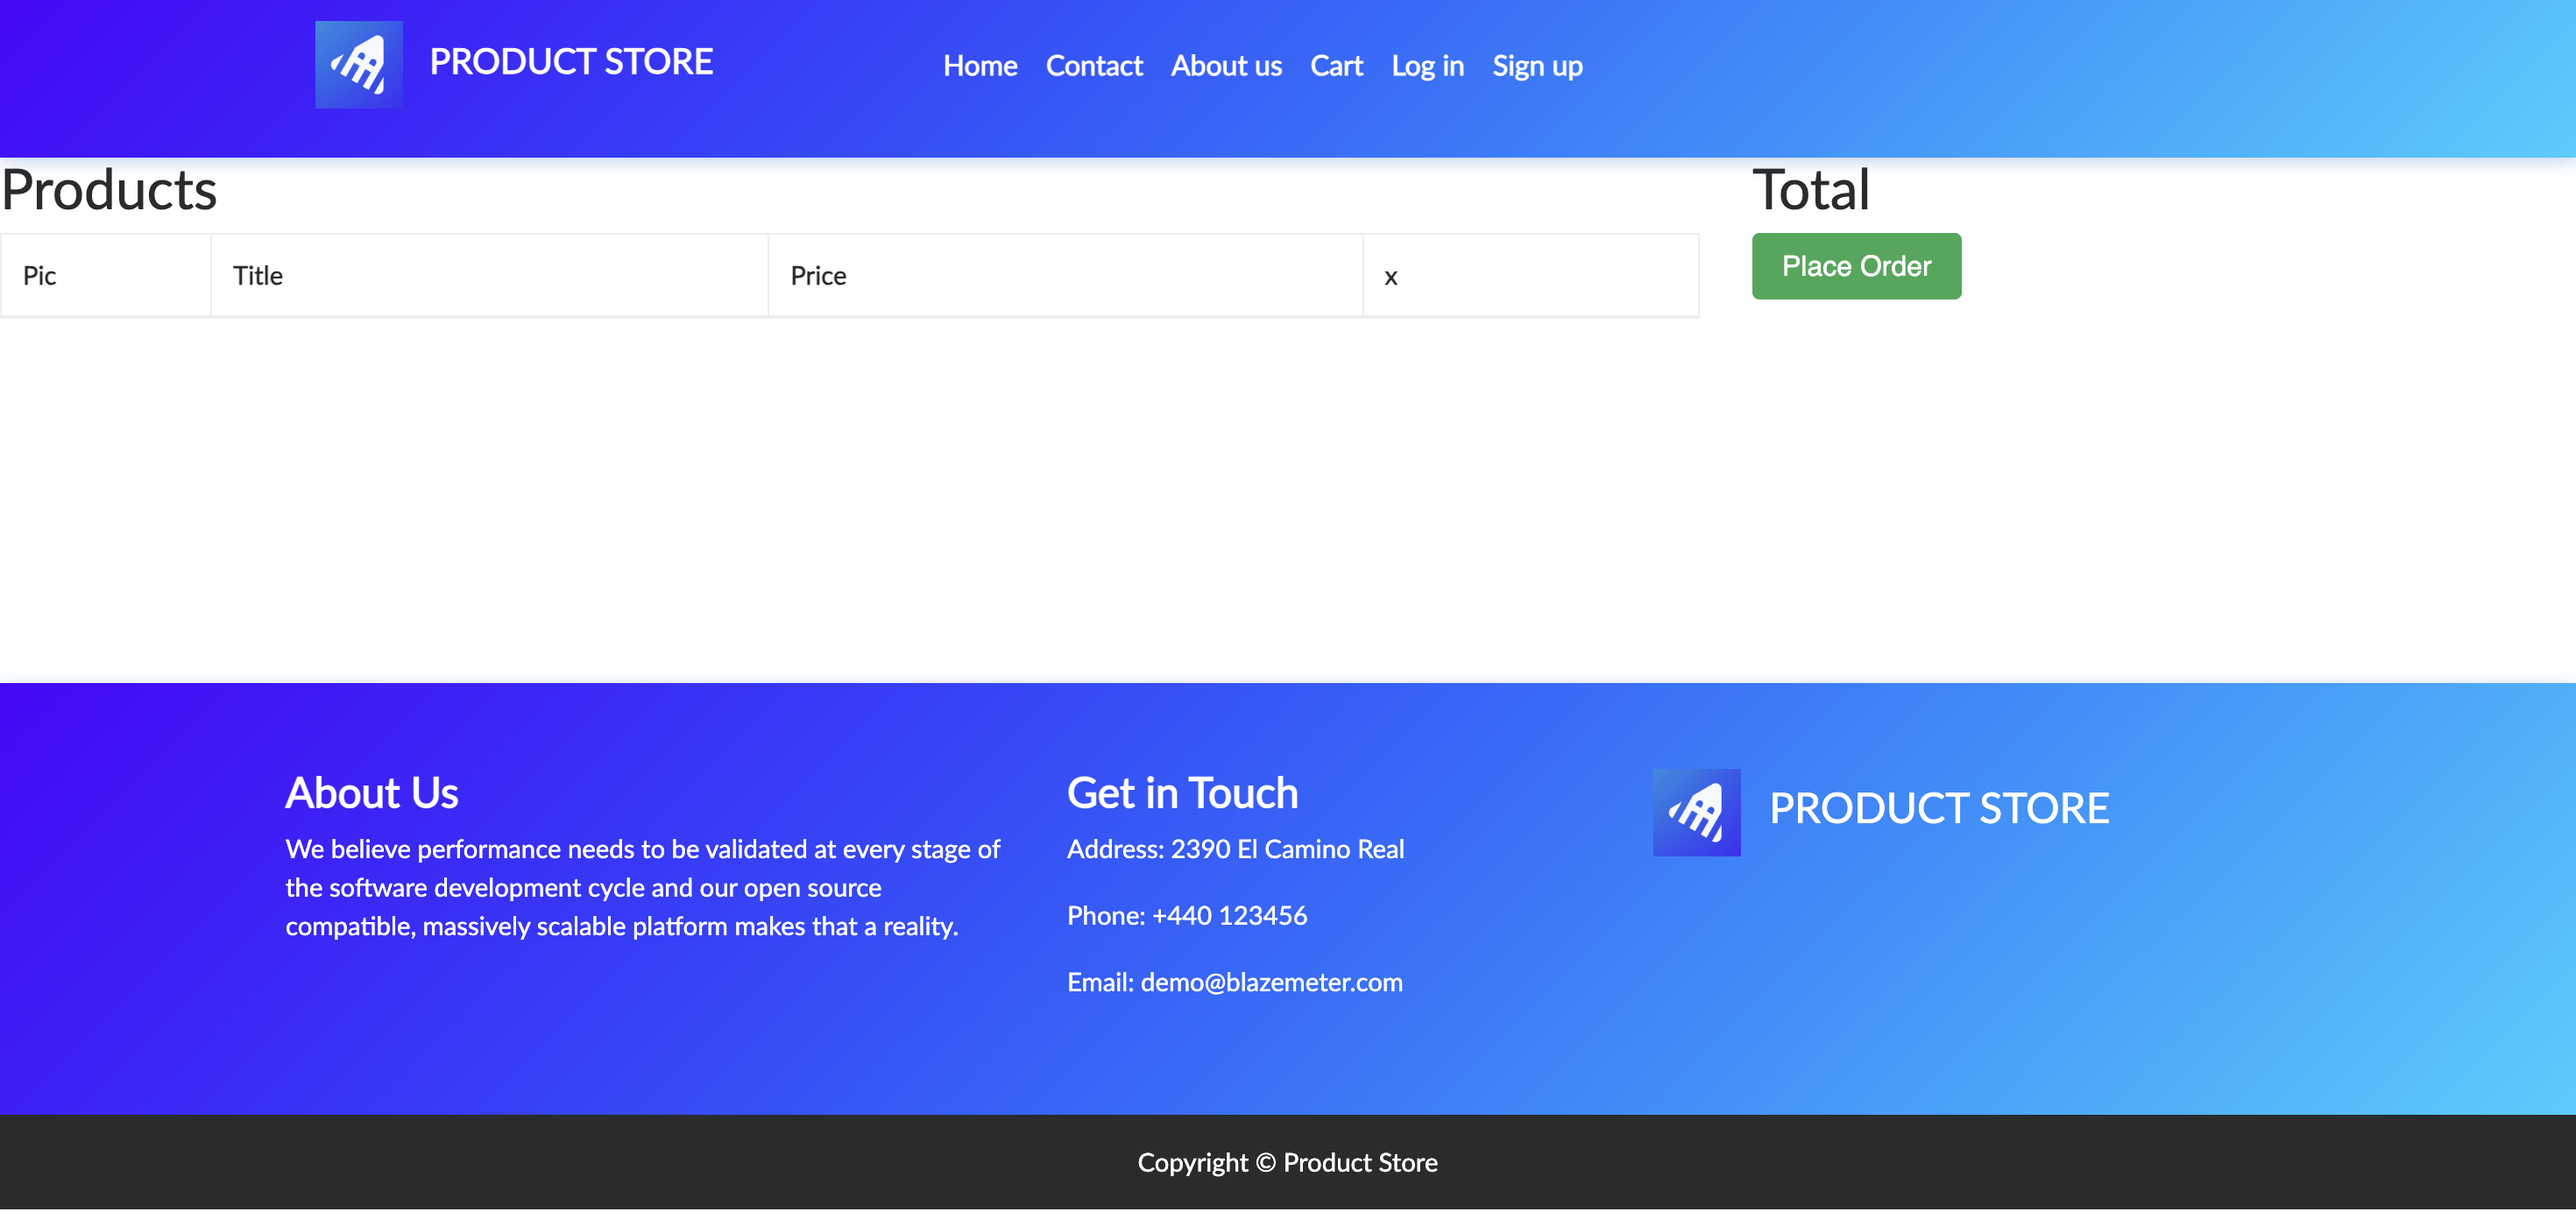
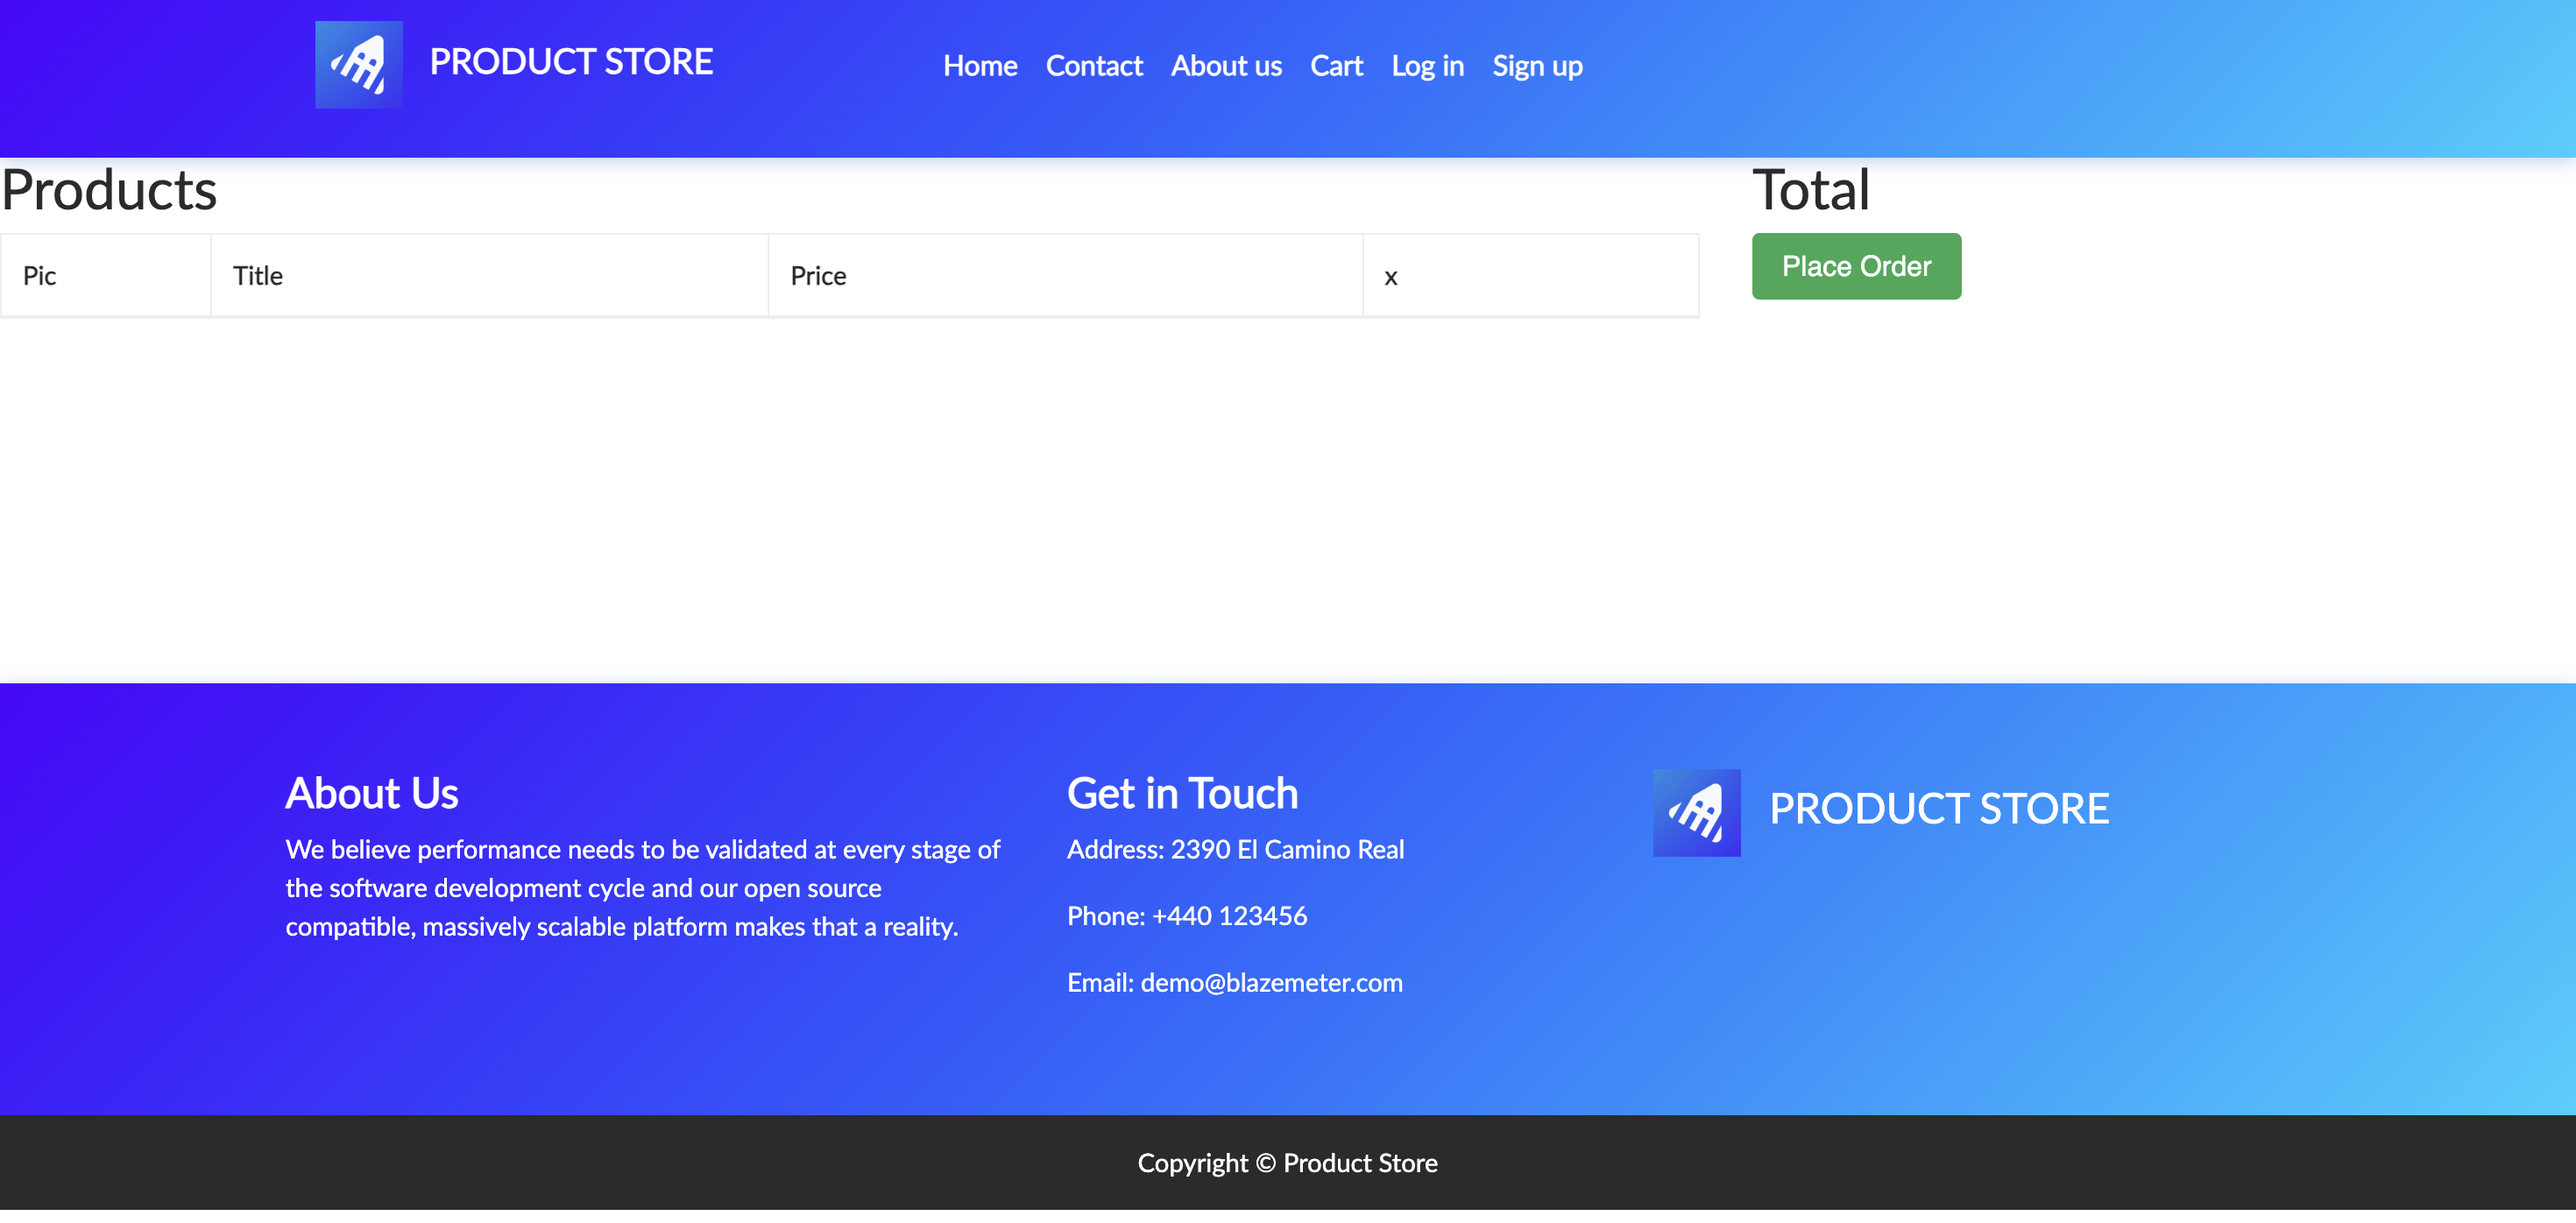
Day 95: Refactor tests to use ecommerce_utils helper functions

diff --git a/days-91-180/test_ecommerce_flow.py b/days-91-180/test_ecommerce_flow.py
@@ -4,20 +4,21 @@ from selenium.webdriver.common.by import By
 from selenium.webdriver.support.ui import WebDriverWait
 from selenium.webdriver.support import expected_conditions as EC
 
+import ecommerce_utils as utils
 
 @pytest.fixture
 def driver():
-    d = webdriver.Chrome()
-    d.maximize_window()
-    yield d
-    d.quit()
+    driver = webdriver.Chrome()
+    driver.maximize_window()
+    yield driver
+    driver.quit()
 
 
 def test_add_product_to_cart(driver):
     wait = WebDriverWait(driver, 10)
 
     # Setup: Open site
-    driver.get("https://www.demoblaze.com/")
+    utils.open_site(driver)
     assert "STORE" in driver.title
 
     # Execute: Click first product
@@ -27,30 +28,18 @@ def test_add_product_to_cart(driver):
     first_product.click()
     assert "prod.html" in driver.current_url
 
-    # Execute: Add to cart
-    add_to_cart = wait.until(EC.element_to_be_clickable(
-        (By.CSS_SELECTOR, "a.btn-success")
-    ))
-    add_to_cart.click()
+    # Execute: Add to cart and handle alert inside utility function
+    utils.add_product_to_cart(driver, wait)
 
-    # Execute: Handle alert
-    alert = wait.until(EC.alert_is_present())
-    alert = driver.switch_to.alert
-    assert alert.text == "Product added"
-    alert.accept()
 
     # Execute: Navigate to cart
-    cart_link = wait.until(EC.element_to_be_clickable(
-        (By.ID, "cartur")
-    ))
-    cart_link.click()
+    utils.navigate_to_cart(driver, wait)
 
     # Assert: Verify cart page
     wait.until(EC.presence_of_element_located(
         (By.CSS_SELECTOR, "table.table")
     ))
     assert "cart" in driver.current_url
-    print("Cart verified!")
 
     # Screenshot
     driver.save_screenshot("demoblaze_cart.png")
@@ -59,33 +48,18 @@ def test_add_product_to_cart_and_remove(driver):
     wait = WebDriverWait(driver, 10)
 
     # Setup: Open site
-    driver.get("https://www.demoblaze.com/")
+    utils.open_site(driver)
     assert "STORE"  in driver.title
 
     # Execute: Click the product
-    product = wait.until(
-        EC.element_to_be_clickable((By.XPATH, "//a[normalize-space()='HTC One M9']")
-    ))
-    product.click()
+    utils.click_product_by_name(driver, wait, "HTC One M9")
     assert "prod.html" in driver.current_url
 
-    # Execute: Add to cart
-    add_to_cart = wait.until(
-        EC.element_to_be_clickable((By.XPATH, "//a[normalize-space()='Add to cart']"))
-    )
-    add_to_cart.click()
-
-    # Execute: Handle alert
-    alert = wait.until(EC.alert_is_present())
-    alert = driver.switch_to.alert
-    assert alert.text == "Product added"
-    alert.accept()
+    # Execute: Add to cart and handle alert inside utility function
+    utils.add_product_to_cart(driver, wait)
 
     # Execute: Navigate to cart
-    cart_link = wait.until(
-        EC.element_to_be_clickable((By.XPATH, "//a[normalize-space()='Cart']"))
-    )
-    cart_link.click()
+    utils.navigate_to_cart(driver, wait)
 
     # Assert: Verify cart page
     wait.until(
@@ -101,11 +75,7 @@ def test_add_product_to_cart_and_remove(driver):
     print("Product verified!")
 
     # Execute: Remove item
-    remove_from_cart = wait.until(
-        EC.element_to_be_clickable((By.XPATH, "//a[normalize-space()='Delete']"))
-    )
-    remove_from_cart.click()
-
+    utils.remove_product_from_cart(driver, wait)
 
     # Verify product is removed from cart
     wait.until(EC.staleness_of(cart_item))
@@ -113,8 +83,6 @@ def test_add_product_to_cart_and_remove(driver):
     # Assertion: Product removed from cart
     remaining_items = driver.find_elements(By.XPATH, "//td[contains(text(), 'HTC One M9')]")
     assert len(remaining_items) == 0, "Item was not removed from cart!"
-
-    print("Product successfully removed from cart!")
 
     # Screenshot
     driver.save_screenshot("demoblaze_cart_01.png")

diff --git a/days-91-180/ecommerce_utils.py b/days-91-180/ecommerce_utils.py
@@ -1,0 +1,52 @@
+from selenium import webdriver
+from selenium.webdriver.common.by import By
+from selenium.webdriver.support.ui import WebDriverWait
+from selenium.webdriver.support import expected_conditions as EC
+
+def open_site(driver):
+    # Navigate to the target website and maximize the browser window
+    driver.get("https://www.demoblaze.com/")
+    driver.maximize_window()
+
+def click_product_by_name(driver, wait, product_name):
+    # Locate a product on the home page by its exact visible name and click it
+    product = wait.until(EC.element_to_be_clickable(
+        (By.XPATH, f"//a[normalize-space()='{product_name}']")
+    ))
+    product.click()
+
+
+def add_product_to_cart(driver, wait):
+    # Locate and click the 'Add to cart' button, then handle alert
+    add_btn = wait.until(EC.element_to_be_clickable(
+        (By.XPATH, "//a[normalize-space()='Add to cart']")
+    ))
+    add_btn.click()
+
+    # Handle the popup alert
+    alert = wait.until(EC.alert_is_present())
+    alert = driver.switch_to.alert
+    assert alert.text == "Product added"
+    alert.accept()
+
+def navigate_to_cart(driver, wait):
+    # Locate and click the 'Cart' link in the navigation menu
+    cart_link = wait.until(EC.element_to_be_clickable(
+        (By.XPATH, "//a[normalize-space()='Cart']")
+    ))
+    cart_link.click()
+
+
+def get_cart_link(driver, wait):
+    # Return the 'Cart' navigation link element
+    return wait.until(EC.element_to_be_clickable(
+        (By.XPATH, "//a[normalize-space()='Cart']")
+    ))
+
+def remove_product_from_cart(driver, wait):
+    # Locate and click the 'Delete' button in the cart table
+    delete_btn = wait.until(EC.element_to_be_clickable(
+        (By.XPATH, "//a[normalize-space()='Delete']")
+    ))
+    delete_btn.click()
+

diff --git a/interview-prep/q-and-a.md b/interview-prep/q-and-a.md
@@ -2,9 +2,13 @@
 
 ---
 
-**Q:** Why would you use explicit waits instead of time.sleep()?
+**Q:** 
 
-**A:** Explicit waits check the browser continuously and move forward the moment an element appears, making tests fast and reliable. time.sleep() forces a fixed pause every time, which is slow and fragile. If a page loads in 0.5 seconds, time.sleep(5) wastes 4.5 seconds. If it takes 6 seconds, the test crashes anyway. WebDriverWait adapts to reality. 
+Why would you use explicit waits instead of time.sleep()?
+
+**A:** 
+
+Explicit waits check the browser continuously and move forward the moment an element appears, making tests fast and reliable. time.sleep() forces a fixed pause every time, which is slow and fragile. If a page loads in 0.5 seconds, time.sleep(5) wastes 4.5 seconds. If it takes 6 seconds, the test crashes anyway. WebDriverWait adapts to reality. 
 
 ## Day 92
 
@@ -18,9 +22,27 @@
 
 ---
 
-**Q:** "How do you organize test code to avoid duplication?"
+**Q:** 
 
-**A:** "I create helper functions in separate utility files for repeated actions—like login, add_to_cart, navigate_to_checkout. Then in my test files, I import and reuse these helpers. This follows DRY principle (Don't Repeat Yourself) and makes tests easier to maintain. If a UI element changes, I update the helper once, not in 10 different tests."
+"How do you organize test code to avoid duplication?"
+
+**A:** 
+
+"I create helper functions in separate utility files for repeated actions—like login, add_to_cart, navigate_to_checkout. Then in my test files, I import and reuse these helpers. This follows DRY principle (Don't Repeat Yourself) and makes tests easier to maintain. If a UI element changes, I update the helper once, not in 10 different tests."
+
+---
+
+## Day 95
+
+---
+
+**Q:**
+
+"How do you handle dynamic content or delays in web automation?"
+
+**A:**
+
+"I use explicit waits with expected conditions instead of hardcoded sleeps. WebDriverWait checks the DOM continuously until the condition is met or timeout occurs. For dynamic XPath expressions, I use f-strings to parameterize values. For JavaScript-heavy sites, I sometimes wait for elements to be stale before checking new content to ensure the page has fully refreshed."
 
 ---
 

diff --git a/README.md b/README.md
@@ -77,3 +77,15 @@ Having established strong foundations in Python, Selenium UI testing, API paymen
 * **Files:**
   * 📜 [Pytest Script Suite](./days-91-180/test_ecommerce_flow.py)
   * 📸 [Cart Removal Screenshot Evidence](./days-91-180/demoblaze_cart_01.png)
+
+---
+
+### 🛠 Day 95: Helper Utilities Refactoring (DRY Principle)
+* **Objective:** Extract common Selenium UI actions into a separate utility module (`ecommerce_utils.py`) to reduce duplication.
+* **Key Actions:**
+  * Created reusable helper functions for opening site, clicking products by name, adding items, navigating to cart, and deleting items.
+  * Refactored `test_ecommerce_flow.py` to import and utilize `ecommerce_utils` helper functions.
+  * Kept assertions and test flows intact while keeping test methods clean and readable.
+* **Files:**
+  * 📜 [Helper Utilities File](./days-91-180/ecommerce_utils.py)
+  * 📜 [Refactored Pytest Suite](./days-91-180/test_ecommerce_flow.py)
